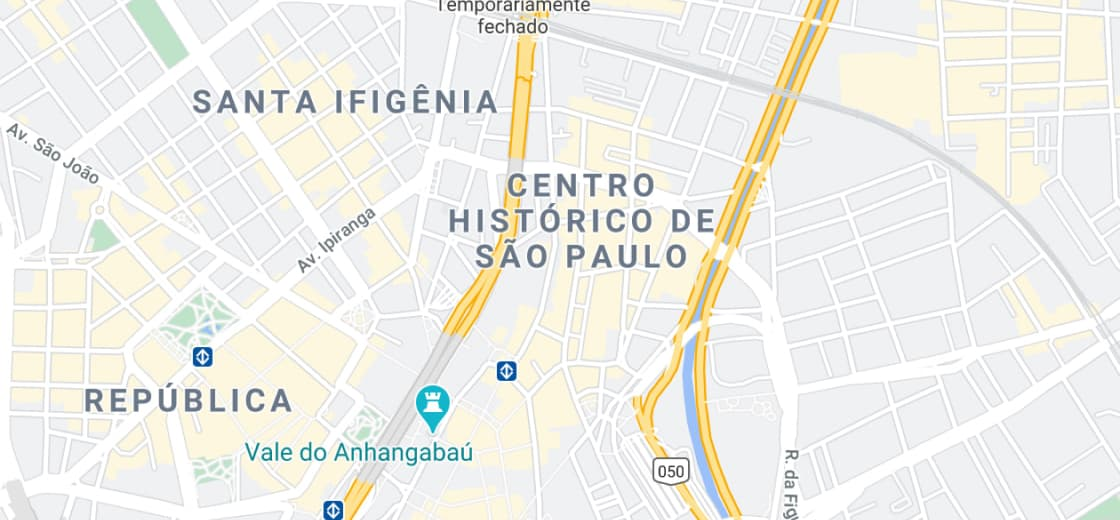
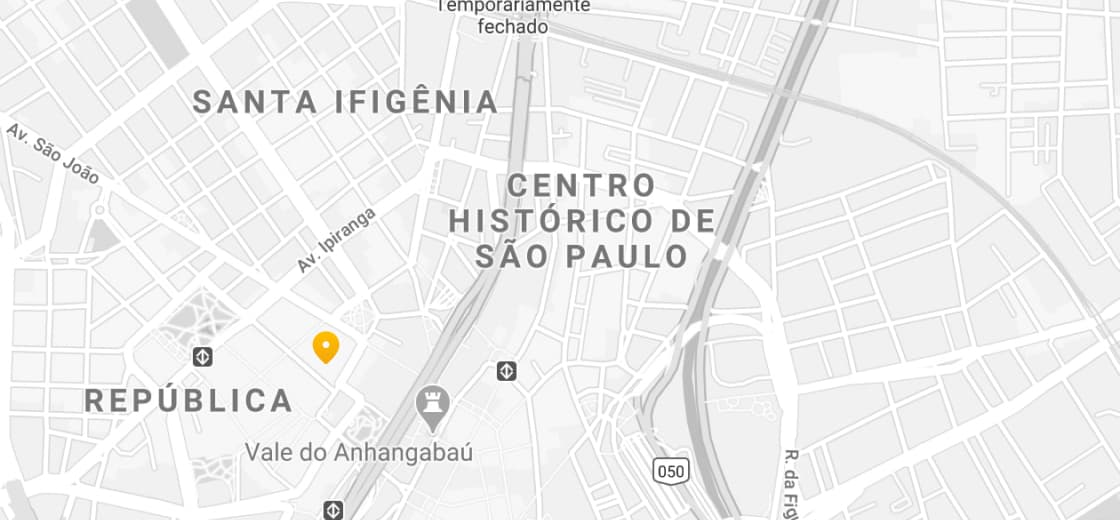
Adicionado-campo-LojasLocais

diff --git a/contato.html b/contato.html
@@ -84,8 +84,40 @@
         </form>
       </section>
     </div>
-
   </main>
+  <article class="lojas container">
+    <h2 class="font-1-xxl">lojas locais<span class="cor-p1">.</span></h2>
+    <div class="lojas-item">
+      <img src="./img/lojas/rio.jpg" alt="Mapa marcando o endereço em Rua Ali Perto, 25 - Rio de Janeiro - RJ">
+      <div class="lojas-conteudo">
+        <h3 class="font-1-xl">Rio de Janeiro</h3>
+        <div class="lojas-dados font-2-s cor-8">
+          <p>Rua Ali Perto, 25</p>
+          <p>Rio de Janeiro - RJ</p>
+        </div>
+        <div class="lojas-dados font-2-s cor-8">
+          <a href="mailto:rj@bikcraft.com">rj@bikcraft.com</a>
+          <a href="tel:+552199999999">+55 21 9999-9999</a>
+        </div>
+        <p class="lojas-tempo font-1-s"><img src="./icones/horario.svg" alt="">08-18h de seg à dom</p>
+      </div>
+    </div>
+    <div class="lojas-item">
+      <img src="./img/lojas/sp.jpg" alt="Mapa marcando o endereço em Rua Ali Perto, 25 - São Paulo - SP">
+      <div class="lojas-conteudo">
+        <h3 class="font-1-xl">São Paulo</h3>
+        <div class="lojas-dados font-2-s cor-8">
+          <p>Rua Ali Perto, 25</p>
+          <p>São Paulo - SP</p>
+        </div>
+        <div class="lojas-dados font-2-s cor-8">
+          <a href="mailto:sp@bikcraft.com">sp@bikcraft.com</a>
+          <a href="tel:+551199999999">+55 11 9999-9999</a>
+        </div>
+        <p class="lojas-tempo font-1-s"><img src="./icones/horario.svg" alt="">08-18h de seg à dom</p>
+      </div>
+    </div>
+  </article>
   <footer class="footer-bg">
     <div class="footer container">
       <img src="./img/bikcraft.svg" alt="Bikcraft">

diff --git a/css/contato/lojas.css b/css/contato/lojas.css
@@ -1,0 +1,67 @@
+.lojas {
+  display: grid;
+  grid-template-columns: 1fr 1fr;
+  gap: 0 40px;
+  padding-top: 120px;
+  padding-bottom: 120px;
+}
+
+.lojas h2 {
+  grid-column: 1 / -1;
+  margin-bottom: 60px;
+}
+
+.lojas img {
+  border-radius: 4px 4px 0 0;
+}
+
+.lojas-item {
+  border-radius: 4px;
+  background: var(--cor-0);
+  box-shadow: 0 1px 2px rgb(0, 0, 0, 0.1);
+}
+
+.lojas-conteudo {
+  display: grid;
+  grid-template-columns: 1fr 1fr;
+  gap: 32px 16px;
+  padding: 32px;
+}
+
+.lojas-conteudo h3,
+.lojas-tempo {
+  grid-column: 1 / -1;
+}
+
+.lojas-dados {
+  display: grid;
+  gap: 8px;
+  border-left: 2px solid var(--cor-2);
+  padding-left: 12px;
+}
+
+.lojas-tempo {
+  display: flex;
+  align-items: center;
+  gap: 8px;
+}
+
+@media (max-width: 800px) {
+  .lojas {
+    gap: 20px;
+    padding-top: 60px;
+    padding-bottom: 60px;
+  }
+  .lojas h2 {
+    margin-bottom: 32px;
+  }
+  .lojas-conteudo {
+    grid-template-columns: 1fr;
+  }
+}
+
+@media (max-width: 600px) {
+  .lojas {
+    grid-template-columns: 1fr;
+  }
+}
